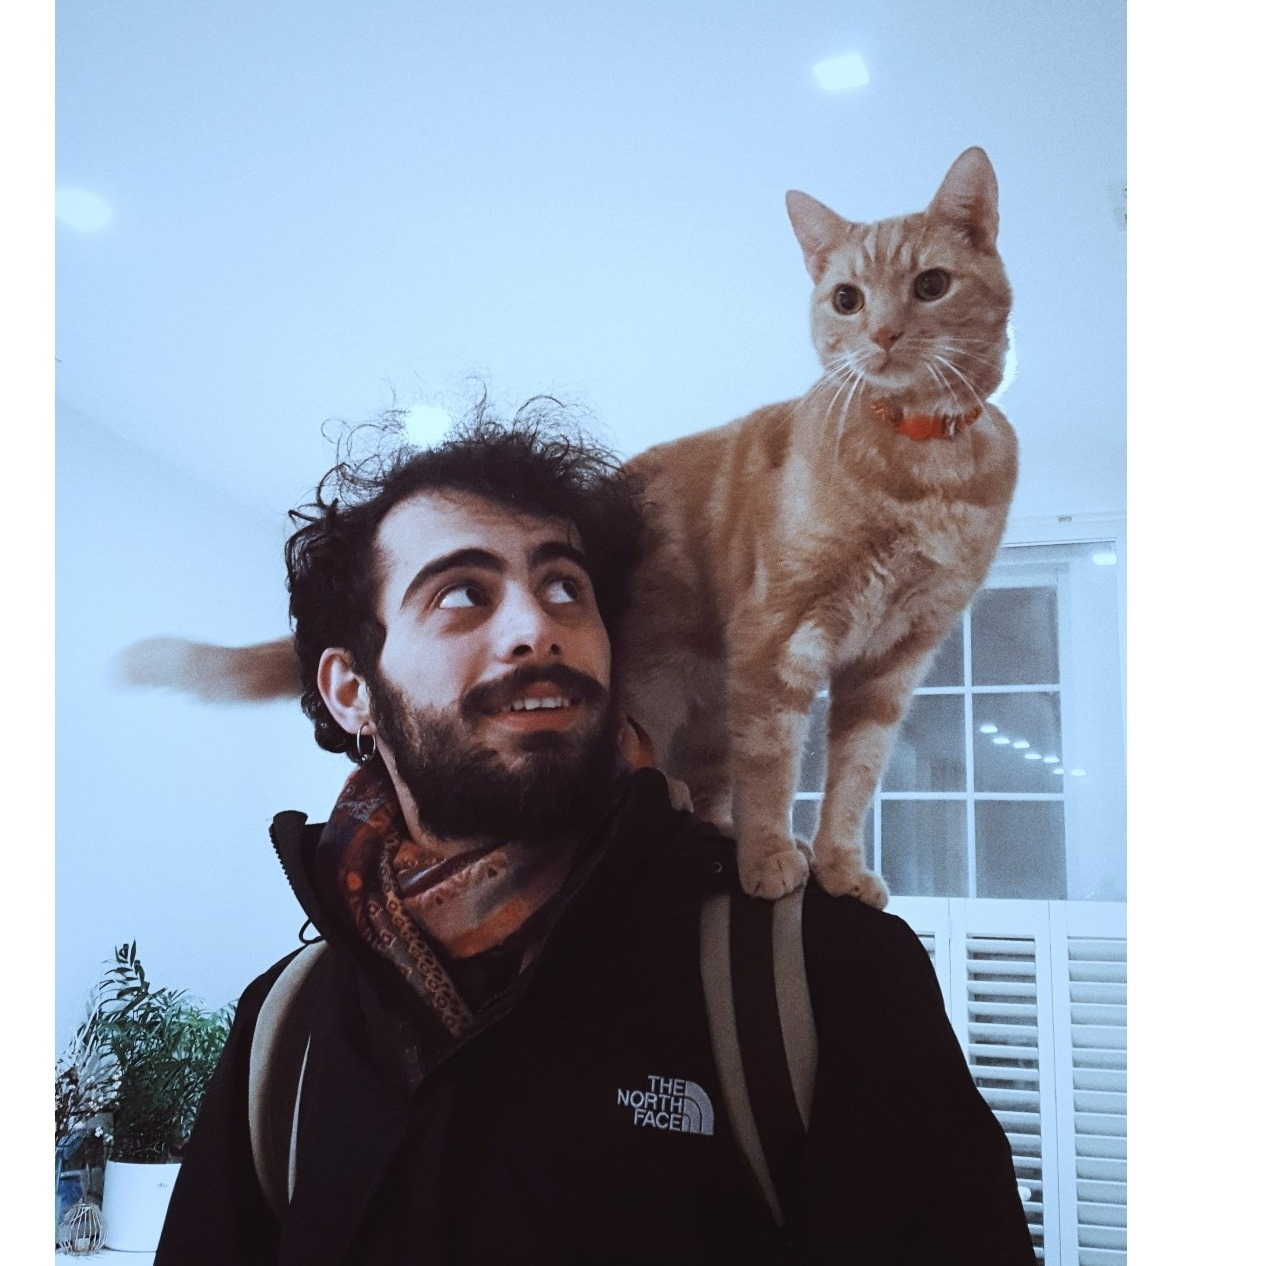
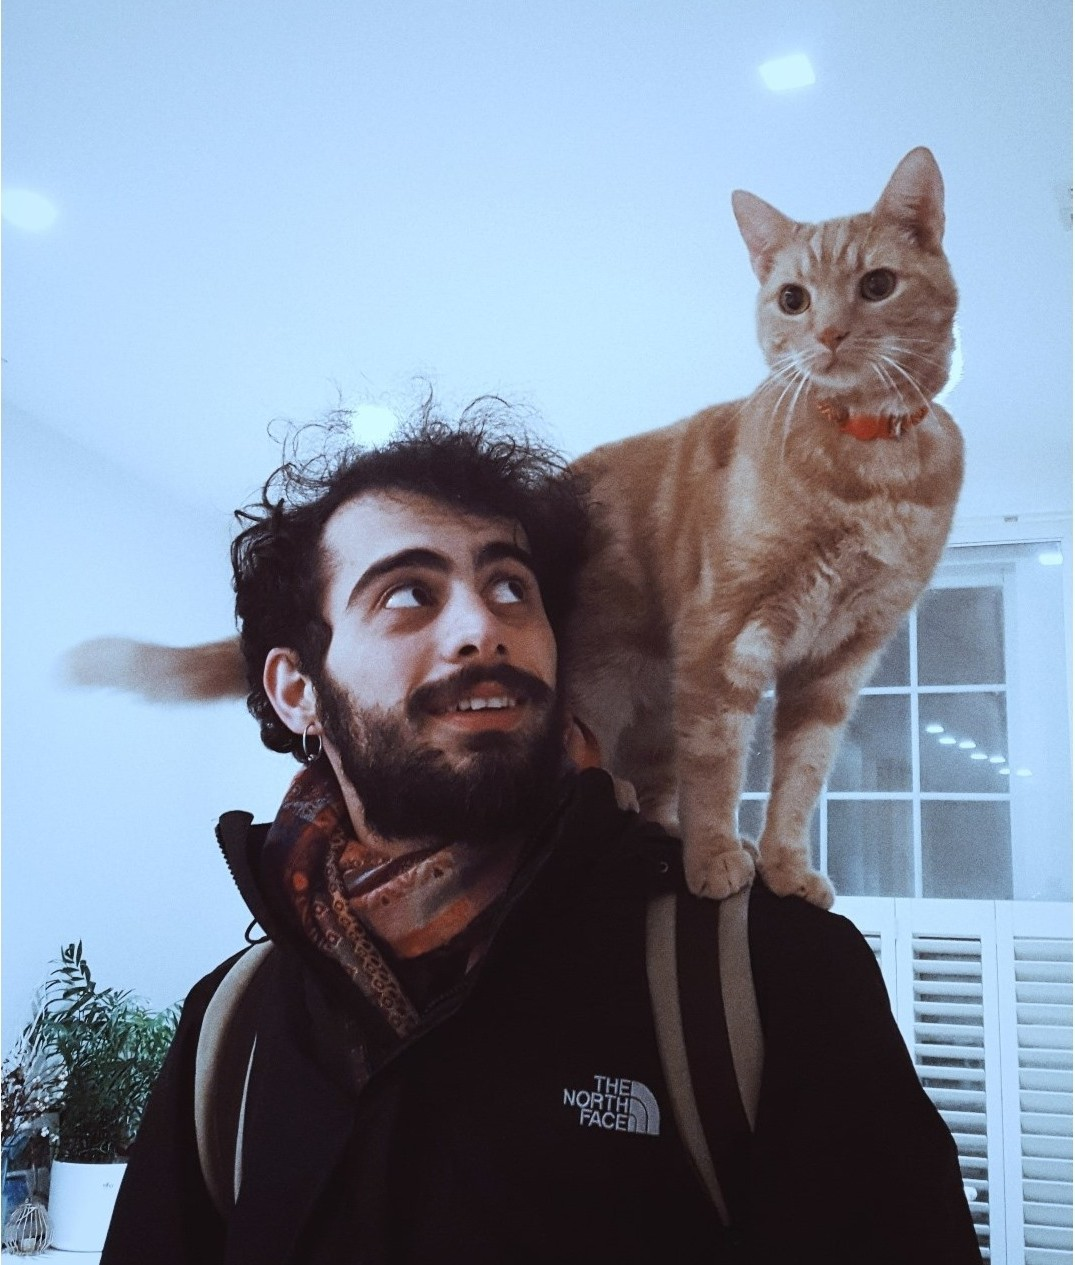
add skeleton to profile section

diff --git a/index.html b/index.html
@@ -20,7 +20,14 @@
   <main>
 
     <section>
-      <h1>Content that won't change</h1>
+      <img src="./cat-on-the-shoulder.jpg" alt="profile picture with a cat on the shoulder" class="profilep-pic">
+      <header class="profile-name">AKAKI MIKAIA</header>
+      <p class="profile-description">Hi I am Akaki Mikaia and i enjoye wokring on interesting projects. I am self-tought webdeveloper and recently finished courses on react, django and python. With heavy focus on user experiance and intereaction</p>
+      <button>ABOUT ME</button>
+      <div class="icon-container">
+        
+      </div>
+
     </section>
     <section>
       <h1>things that will change when you click the link</h1>

diff --git a/style.css b/style.css
@@ -6,13 +6,4 @@
 main{
   width: 90%;
   margin: 0 auto;
-  display: flex;
-  justify-content: space-evenly;
-  /* flex-direction: column; */
-}
-
-section{
-  width: 50%;
-  min-height: 50vh;
-  border: 2px solid black;
 }
